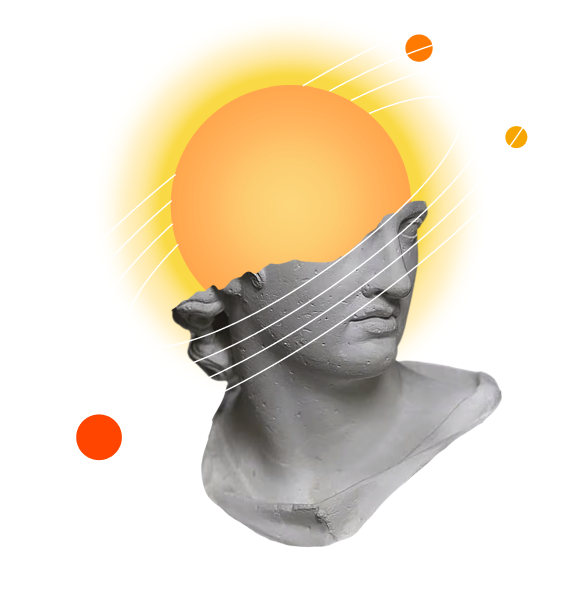
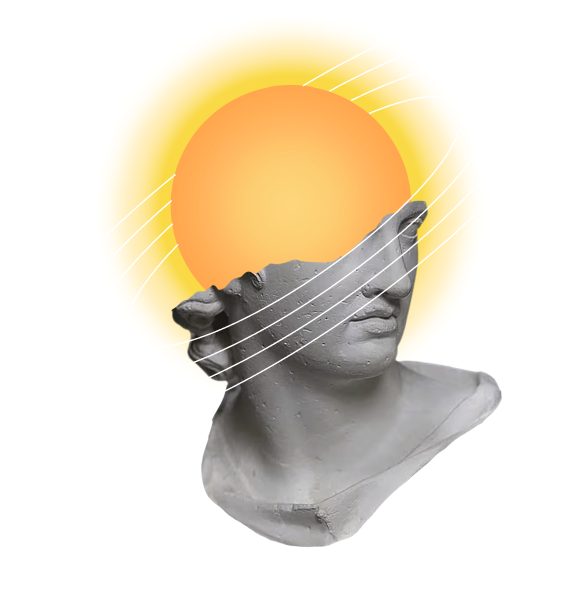
Create header (no interactions yet)

Changed region(s): [[0.1224, 0.6877, 0.2143, 0.7774], [0.6735, 0.0598, 0.7347, 0.1196], [0.8571, 0.2093, 0.9184, 0.2691]]

diff --git a/src/style.css b/src/style.css
@@ -64,7 +64,7 @@
 
 html {
   font-family: "Satoshi", sans-serif;
-  font-size: 20px;
+  font-size: 16px;
 
   @apply text-cultured bg-darkGunmetal;
 }
@@ -119,8 +119,15 @@ p {
 button {
   font-weight: 300;
   font-size: 1.5rem;
+  transition: background-color 0.1s, transform 0.1s;
 
   @apply px-12 py-1.5 bg-redOrange rounded-full;
+}
+
+button:hover {
+  background-color: theme(colors.redOrange / 80%);
+  transform: translateY(-2px);
+  @apply drop-shadow-md;
 }
 
 section {
@@ -129,6 +136,32 @@ section {
 
 a {
   @apply text-cheese underline text-sm font-light;
+}
+
+/* -------- */
+/*  Header  */
+/* -------- */
+
+.header {
+  background: linear-gradient(
+    theme(colors.starlingFeather),
+    theme(colors.starlingFeather / 0%)
+  );
+
+  @apply flex flex-row h-[100px] items-center justify-between px-4;
+}
+
+.menu {
+  @apply flex flex-row gap-2 items-center;
+}
+
+.menu p {
+  font-family: "Figree", sans-serif;
+  font-weight: 300;
+  font-size: 0.63rem;
+  letter-spacing: 0.1rem;
+
+  @apply uppercase;
 }
 
 /* -------- */
@@ -222,4 +255,110 @@ a {
 
 .circle {
   @apply w-[48px] h-[48px] bg-lavenderGray rounded-full absolute -top-6 right-8;
+}
+
+.orbit {
+  animation: hide linear infinite;
+  transform-style: preserve-3d;
+  z-index: 1;
+
+  @apply absolute inset-0;
+}
+
+.planet {
+  animation: move linear infinite;
+
+  @apply rounded-full absolute;
+}
+
+.orbit1 {
+  animation-duration: 40s;
+  transform: scale(1.2) translateX(30px) translateY(33px);
+}
+
+.orbit2 {
+  animation-duration: 30s;
+  animation-delay: -5s;
+
+  transform: scale(1.2) translateX(30px) translateY(0px);
+}
+
+.orbit3 {
+  animation-duration: 20s;
+  animation-delay: -8s;
+
+  transform: scale(1.2) translateX(30px) translateY(0px);
+}
+
+.orbit4 {
+  animation-duration: 25s;
+  animation-delay: -10s;
+
+  transform: scale(1.2) translateX(30px) translateY(0px);
+}
+
+.planet1 {
+  animation-duration: 40s;
+  offset-path: path(
+    "M290.28 11.1927C294.564 17.3117 294.791 25.9493 291.357 36.4487C287.927 46.9377 280.873 59.1858 270.766 72.4121C250.554 98.86 218.204 129.127 178.501 156.927C138.797 184.728 99.2914 204.775 67.5259 214.722C51.6402 219.696 37.7183 222.136 26.6886 221.771C15.6481 221.407 7.6087 218.24 3.32413 212.121C-0.960441 206.002 -1.18647 197.365 2.24703 186.865C5.67717 176.376 12.7309 164.128 22.8384 150.902C43.0498 124.454 75.4002 94.1873 115.103 66.3868C154.807 38.5862 194.313 18.5387 226.078 8.59187C241.964 3.61756 255.886 1.17831 266.915 1.54251C277.956 1.90706 285.995 5.0737 290.28 11.1927Z"
+  );
+
+  @apply w-[16px] h-[16px] bg-redOrange;
+}
+
+.planet2 {
+  animation-duration: 30s;
+  animation-delay: -5s;
+
+  offset-path: path(
+    "M270.37 24.4928C273.943 29.596 274.058 36.8758 271.019 45.7962C267.984 54.7043 261.837 65.1428 253.068 76.445C235.534 99.0443 207.59 125.004 173.388 148.953C139.186 172.901 105.235 190.281 78.0012 199.028C64.3814 203.403 52.47 205.609 43.0612 205.414C33.6394 205.219 26.8379 202.621 23.2646 197.518C19.6912 192.415 19.5766 185.135 22.6155 176.214C25.6502 167.306 31.7973 156.868 40.5663 145.566C58.1003 122.966 86.0442 97.0062 120.246 73.0578C154.448 49.1094 188.4 31.7296 215.633 22.9825C229.253 18.6079 241.164 16.4016 250.573 16.5967C259.995 16.7921 266.797 19.3896 270.37 24.4928Z"
+  );
+
+  @apply w-[14px] h-[14px] bg-heatWave;
+}
+
+.planet3 {
+  animation-duration: 20s;
+  animation-delay: -8s;
+
+  offset-path: path(
+    "M250.022 38.5411C252.917 42.6767 252.964 48.6355 250.372 56.0016C247.784 63.3535 242.603 71.9959 235.236 81.3759C220.505 100.131 197.109 121.743 168.535 141.751C139.96 161.759 111.65 176.352 88.9881 183.78C77.654 187.494 67.7607 189.407 59.9672 189.324C52.1587 189.241 46.5752 187.159 43.6794 183.023C40.7836 178.888 40.7368 172.929 43.3293 165.563C45.9168 158.211 51.098 149.569 58.4653 140.189C73.1958 121.434 96.592 99.8219 125.166 79.814C153.741 59.806 182.051 45.2124 204.713 37.7849C216.047 34.0701 225.94 32.1571 233.734 32.2402C241.542 32.3234 247.126 34.4054 250.022 38.5411Z"
+  );
+
+  @apply w-[10px] h-[10px] bg-sunnyDay;
+}
+
+.planet4 {
+  animation-duration: 25s;
+  animation-delay: -10s;
+
+  offset-path: path(
+    "M229.329 53.1535C231.5 56.254 231.455 60.8197 229.291 66.5661C227.134 72.294 222.914 79.071 216.957 86.4623C205.046 101.24 186.265 118.381 163.431 134.369C140.598 150.357 118.067 162.143 100.107 168.281C91.1243 171.351 83.3128 172.998 77.1926 173.066C71.0526 173.134 66.7469 171.615 64.5759 168.515C62.4049 165.414 62.45 160.848 64.6139 155.102C66.7709 149.374 70.9904 142.597 76.9478 135.206C88.858 120.429 107.64 103.288 130.473 87.2994C153.307 71.3113 175.838 59.5249 193.797 53.387C202.78 50.3169 210.592 48.6697 216.712 48.6019C222.852 48.5338 227.158 50.053 229.329 53.1535Z"
+  );
+
+  @apply w-[8px] h-[8px] bg-strawCoop;
+}
+
+@keyframes move {
+  0% {
+    offset-distance: 0%;
+  }
+  100% {
+    offset-distance: 100%;
+  }
+}
+
+@keyframes hide {
+  0% {
+    z-index: 15;
+  }
+  50% {
+    z-index: 15;
+  }
+  51% {
+    z-index: 1;
+  }
+  100% {
+    z-index: 1;
+  }
 }

diff --git a/src/index.html b/src/index.html
@@ -4,19 +4,36 @@
     <meta charset="UTF-8" />
     <meta http-equiv="X-UA-Compatible" content="IE=edge" />
     <meta name="viewport" content="width=device-width, initial-scale=1.0" />
+
+    <link rel="preconnect" href="https://fonts.googleapis.com" />
+    <link rel="preconnect" href="https://fonts.gstatic.com" crossorigin />
+    <link
+      href="https://fonts.googleapis.com/css2?family=Figtree&display=swap"
+      rel="stylesheet"
+    />
+
     <title>The Signal</title>
   </head>
   <body>
-    <div class="accent">
-      <div></div>
-    </div>
+    <header class="header">
+      <img src="img/logo.svg" />
 
-    <div class="accent top-[350vh]">
-      <div class="-translate-x-[300px]"></div>
-    </div>
+      <div class="menu">
+        <p>Menu</p>
+        <img src="img/burger_menu.svg" />
+      </div>
+    </header>
 
     <section id="the-signal" class="flex-col">
-      <div class="mb-10">
+      <div class="accent">
+        <div></div>
+      </div>
+
+      <div class="accent top-[350vh]">
+        <div class="-translate-x-[300px]"></div>
+      </div>
+
+      <div class="flex flex-col mb-10 justify-center">
         <div class="mb-8">
           <div class="overline"></div>
           <h2 class="mt-2">We are</h2>
@@ -48,7 +65,38 @@
         We promote transparent communication and integrity in our interactions.
       </h3>
 
-      <img class="mt-10 mb-4" src="img/values.png" />
+      <div class="relative h-[400px]">
+        <div class="relative mt-10 mb-4">
+          <div class="orbit orbit1 h-[390px]">
+            <div class="planet planet1"></div>
+          </div>
+
+          <div class="orbit orbit2">
+            <div class="planet planet2"></div>
+          </div>
+
+          <div class="orbit orbit3">
+            <div class="planet planet3"></div>
+          </div>
+
+          <div class="orbit orbit4">
+            <div class="planet planet4"></div>
+          </div>
+
+          <img
+            class="absolute z-0"
+            height="390"
+            width="390"
+            src="img/values_orbits.png"
+          />
+          <img
+            class="absolute z-10"
+            height="390"
+            width="390"
+            src="img/values_statue.png"
+          />
+        </div>
+      </div>
 
       <div>
         <h5>Simplicity</h5>
@@ -81,7 +129,7 @@
     </section>
 
     <section id="services" class="px-0">
-      <div class="px-4">
+      <div class="flex flex-col px-4 justify-center">
         <h4 class="uppercase">Our services</h4>
 
         <h3 class="mt-5">

diff --git a/tailwind.config.js b/tailwind.config.js
@@ -3,6 +3,7 @@ module.exports = {
   theme: {
     extend: {
       colors: {
+        starlingFeather: "#131520",
         cultured: "#F8F8F8",
         cheese: "#F8A600",
         darkGunmetal: "#1D2030",
@@ -11,6 +12,9 @@ module.exports = {
         lavenderGray: "#BDC0D3",
         arsenic: "#3F414F",
         redOrange: "#FF4600",
+        heatWave: "#FF7A00",
+        sunnyDay: "#F7A600",
+        strawCoop: "#FFEF5B",
       },
     },
   },
